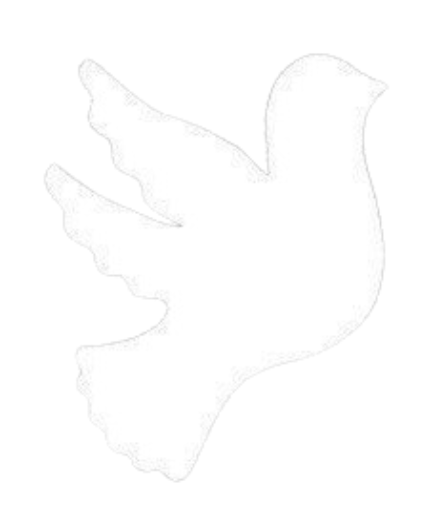
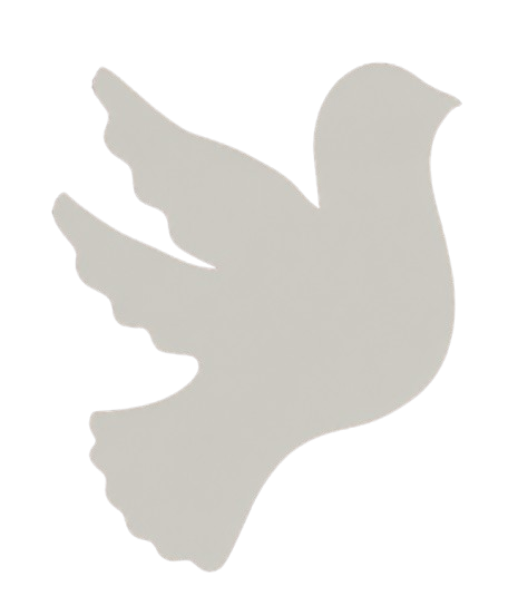
Add files via upload

diff --git a/welcome.css b/welcome.css
@@ -23,6 +23,7 @@
          
     background-attachment: fixed;
 }
+
 .welcome-principal {
     max-width: none;
 }
@@ -77,10 +78,17 @@
 .barra-topo {
     background-color: #6a89a7;
     padding: 20px 5%;
-    width: 100%;
-    position: fixed;
-    border-bottom: 2px solid #5f7994;
+   width: 100%;
+   position: fixed;
+   align-items: center;
+   justify-content: center;
+   display: flex;
 }
+.logoo{
+    width: 50px;
+    margin-left:-1020px; 
+}
+   
 .nome-site {
     font-family: Arial, Helvetica, sans-serif;
     color: #cfcdc7;

diff --git a/home.css b/home.css
@@ -63,8 +63,8 @@ body {
 font-family:  Arial, Helvetica, sans-serif;
 color: #cfcdc7;
 font-size: 2.0rem;
- font-weight: bold;
- letter-spacing: 2px;
+font-weight: bold;
+letter-spacing: 2px;
 
 }
 .barra-topo {

diff --git a/welcome.html b/welcome.html
@@ -15,6 +15,7 @@
 <body>
     
 <header class="barra-topo">
+    <img src="pomba.png" alt="Logo de Pomba da Paz" class="logoo"> 
     <div class="nome-site" id="nome-site">Histórias de Paz</div>
 </header>
 
